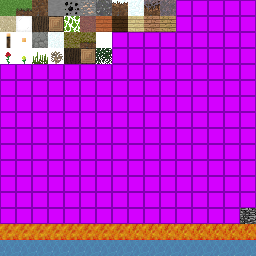
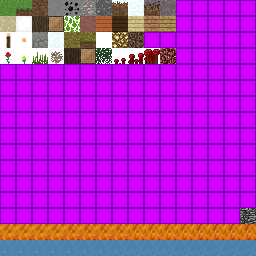
working on the great nether update!

Changed region(s): [[0.4375, 0.125, 0.6875, 0.25]]

diff --git a/src/lib/chunks/Chunk.js b/src/lib/chunks/Chunk.js
@@ -1,7 +1,8 @@
+import { BlockDict } from "../Blocks";
 import { MOUNTAIN_STRUCTURE } from "../Structures";
 
 export class Chunk {
-    constructor(cx, cz, size, chunkNoise, biomeCorners, modifiedMap, biome, fluidMap) {
+    constructor(cx, cz, size, chunkNoise, biomeCorners, modifiedMap, biome, fluidMap, dimension = 'overworld') {
         this.cx = cx;
         this.cz = cz;
         this.size = size;
@@ -11,13 +12,18 @@ export class Chunk {
         this.chunkHeight = 0;
 
         this.biome = biome;
+        this.dimension = dimension;
 
         this.blocks = this._generate(chunkNoise, biomeCorners, modifiedMap, fluidMap);
     }
 
 
     _generate(chunkNoise, biomeCorners, modifiedMap, fluidMap) {
-        const CHUNK = this._generateBaseChunk(chunkNoise, biomeCorners, fluidMap);
+        let CHUNK;
+        if (this.dimension === 'nether') {
+            CHUNK = this._generateNetherChunk(chunkNoise);
+        }
+        CHUNK = this._generateBaseChunk(chunkNoise, biomeCorners, fluidMap);
 
         const key = `${this.cx},${this.cz}`;
 
@@ -29,6 +35,64 @@ export class Chunk {
         return CHUNK;
     }
 
+    _generateNetherChunk(chunkNoise) {
+        const CHUNK = Array(this.size).fill().map(() =>
+            Array(this.maxHeight).fill().map(() =>
+                Array(this.size).fill(0)
+            )
+        );
+
+        for (let x = 0; x < this.size; x++) {
+            for (let z = 0; z < this.size; z++) {
+                const wx = this.cx * this.size + x;
+                const wz = this.cz * this.size + z;
+
+                // 1. Noise for Terrain (Ground and Ceiling)
+                // We use 3D-ish noise logic or just simple 2D heightmap for floor + ceiling for now
+                // "Simplex" noise usually better here, but we'll use your 2D noise for a cave-like feel.
+
+                const baseFreq = 0.02;
+                const ceilingFreq = 0.03;
+
+                // Floor Noise
+                const floorNoise = chunkNoise(wx * baseFreq, wz * baseFreq);
+                const floorHeight = 30 + Math.floor(floorNoise * 15); // Hills from y=30 to y=45
+
+                // Ceiling Noise (Stalactites)
+                const ceilingNoise = chunkNoise(wx * ceilingFreq + 1000, wz * ceilingFreq + 1000); // Offset for variety
+                const ceilingHeight = 100 - Math.floor(ceilingNoise * 10); // Ceiling around y=90 to 100
+
+                // Lava Ocean Level
+                const lavaLevel = 32;
+
+                for (let y = 0; y < this.maxHeight; y++) {
+                    if (y === 0 || y === 127) {
+                        CHUNK[x][y][z] = BlockDict.bedrock.id;
+                        continue;
+                    }
+
+                    // Lava Ocean
+                    if (y < lavaLevel) {
+                        CHUNK[x][y][z] = BlockDict.lava.id;
+                        continue;
+                    }
+
+                    // Terrain Generation
+                    if (y <= floorHeight) {
+                        CHUNK[x][y][z] = BlockDict.netherrack.id;
+                    }
+                    else if (y >= ceilingHeight) {
+                        CHUNK[x][y][z] = BlockDict.netherrack.id;
+                    }
+
+                    if (y >= ceilingHeight && Math.random() < 0.02) {
+                        CHUNK[x][y][z] = BlockDict.glowstone.id;
+                    }
+                }
+            }
+        }
+        return CHUNK;
+    }
 
     _generateBaseChunk(chunkNoise, biomeCorners, fluidMap) {
 
@@ -74,23 +138,26 @@ export class Chunk {
                 for (let y = 0; y <= height; y++) {
                     let block = 0;
 
+                    if (y === 0)
+                        CHUNK[x][y][z] = BlockDict.bedrock.id;
+
                     if (y > this.chunkHeight)
                         this.chunkHeight = y;
 
                     if (y === height) {
                         if ((this.biome == 'mountains' || this.biome == 'hills') && y >= snowLine)
-                            block = 14; // snow
+                            block = BlockDict.snow.id;
                         else if (this.biome == 'mushroom_fields')
-                            block = 17;
+                            block = BlockDict.mycelium.id;
                         else
-                            block = 1; //grass
+                            block = BlockDict.grass.id;
                     }
                     else if (y >= height - stoneDepth) block = 2;
                     else {
-                        block = 7;
+                        block = BlockDict.stone.id;
                         const r = Math.random();
-                        if (y > 0 && y < 40 && r < 0.05) block = 8;
-                        if (y > 5 && y < 30 && r < 0.02) block = 9;
+                        if (y > 0 && y < 40 && r < 0.05) block = BlockDict.coal.id;
+                        if (y > 5 && y < 30 && r < 0.02) block = BlockDict.iron.id;
                     }
                     CHUNK[x][y][z] = block;
 
@@ -113,7 +180,7 @@ export class Chunk {
                         //         level: 8
                         //     };
                         // }
-                        CHUNK[x][y][z] = 3;
+                        CHUNK[x][y][z] = BlockDict.water.id;
                     } else if (CHUNK[x][y][z] === 1) {
                         CHUNK[x][y][z] = (y < 7) ? 7 : 6;
                     }

diff --git a/src/lib/world.js b/src/lib/world.js
@@ -21,6 +21,7 @@ export default class World {
         this.world = new Map();
         this.modifiedMap = new Map();
         this.fluidMap = new Map(); // key will be coords obviuosly and the values will be water level 0 to 8
+        this.dimension = "overworld";
 
         this.biomeSettings = {
             ocean: { heightScale: 5, waterLevel: 12 },
@@ -155,10 +156,40 @@ export default class World {
                 this.getBiomeCorners(cx, cz),
                 this.modifiedMap,
                 this.getBiome(wx, wz),
-                this.fluidMap
+                this.fluidMap,
+                this.dimension
             );
             this.world.set(key, chunk);
             this.crenderer.render(chunk, cx, cz);
+        }
+    }
+
+    setDimension(dimension) {
+        if (this.dimension === dimension) return;
+
+        console.log(`Switching dimension to: ${dimension}`);
+        this.dimension = dimension;
+
+        // 1. Clear all current chunks (visuals)
+        for (const chunk of this.world.values()) {
+            for (const { mesh } of Object.values(chunk.meshes)) {
+                this.scene.remove(mesh);
+                mesh.geometry.dispose();
+            }
+        }
+
+        // 2. Clear data maps so we don't load Overworld chunks in Nether
+        // Note: In a real game, you'd save 'overworld_chunks' to disk and load 'nether_chunks'
+        // For now, we will just clear the cache to regenerate them.
+        this.world.clear();
+
+        // 3. Change Atmosphere
+        if (dimension === 'nether') {
+            this.scene.background = new THREE.Color(0x200505); // Dark Red
+            this.scene.fog = new THREE.FogExp2(0x300505, 0.04); // Thick Red Fog
+        } else {
+            this.scene.background = new THREE.Color(0x87ceeb); // Sky Blue
+            this.scene.fog = new THREE.Fog(0x87ceeb, 10, 50); // Light fog
         }
     }
 

diff --git a/src/lib/Blocks.js b/src/lib/Blocks.js
@@ -231,6 +231,69 @@ export const BlockDict = {
             bottom: [2, 0]
         }
     },
+    netherrack: {
+        id: 18,
+        name: "Netherrack",
+        isSolid: true,
+        isTransparent: false,
+        isAnimated: false,
+        isLuminous: false,
+        uv: {
+            top: [10, 3],
+            side: [10, 3],
+            bottom: [10, 3]
+        }
+    },
+    glowstone: {
+        id: 19,
+        name: "Glowstone",
+        isSolid: true,
+        isTransparent: false,
+        isAnimated: false,
+        isLuminous: true,
+        uv: {
+            top: [7, 2],
+            side: [7, 2],
+            bottom: [7, 2]
+        }
+    },
+    soul_sand: {
+        id: 20,
+        name: "Soul Sand",
+        isSolid: true,
+        isTransparent: false,
+        isAnimated: false,
+        isLuminous: true,
+        uv: {
+            top: [8, 2],
+            side: [8, 2],
+            bottom: [8, 2]
+        }
+    }, lava: {
+        id: 21,
+        name: "Lava",
+        isSolid: false,
+        isTransparent: false,
+        isAnimated: false,
+        isLuminous: true,
+        uv: {
+            top: [0, 14],
+            side: [0, 14],
+            bottom: [0, 14]
+        }
+    }, bedrock: {
+        id: 22,
+        name: "Bedrock",
+        isSolid: true,
+        isTransparent: false,
+        isAnimated: false,
+        isLuminous: false,
+        uv: {
+            top: [15, 13],
+            side: [15, 13],
+            bottom: [15, 13]
+        }
+    },
 };
 
 export class BlockAtlas {

diff --git a/src/main.js b/src/main.js
@@ -69,3 +69,14 @@ function animate() {
 
 }
 animate();
+
+window.addEventListener('keydown', (e) => {
+    if (e.code === 'KeyN') {
+        const newDim = world.dimension === 'overworld' ? 'nether' : 'overworld';
+        world.setDimension(newDim);
+
+        // Reset player position so they don't suffocate in a wall
+        player.position.set(0, 80, 0);
+        player.velocity.set(0, 0, 0);
+    }
+});

diff --git a/src/lib/Dimension.js b/src/lib/Dimension.js
@@ -1,0 +1,6 @@
+export const nether = {
+    id: "nether",
+    fogColor: "dark_red",
+    hasSky: false,
+
+}
